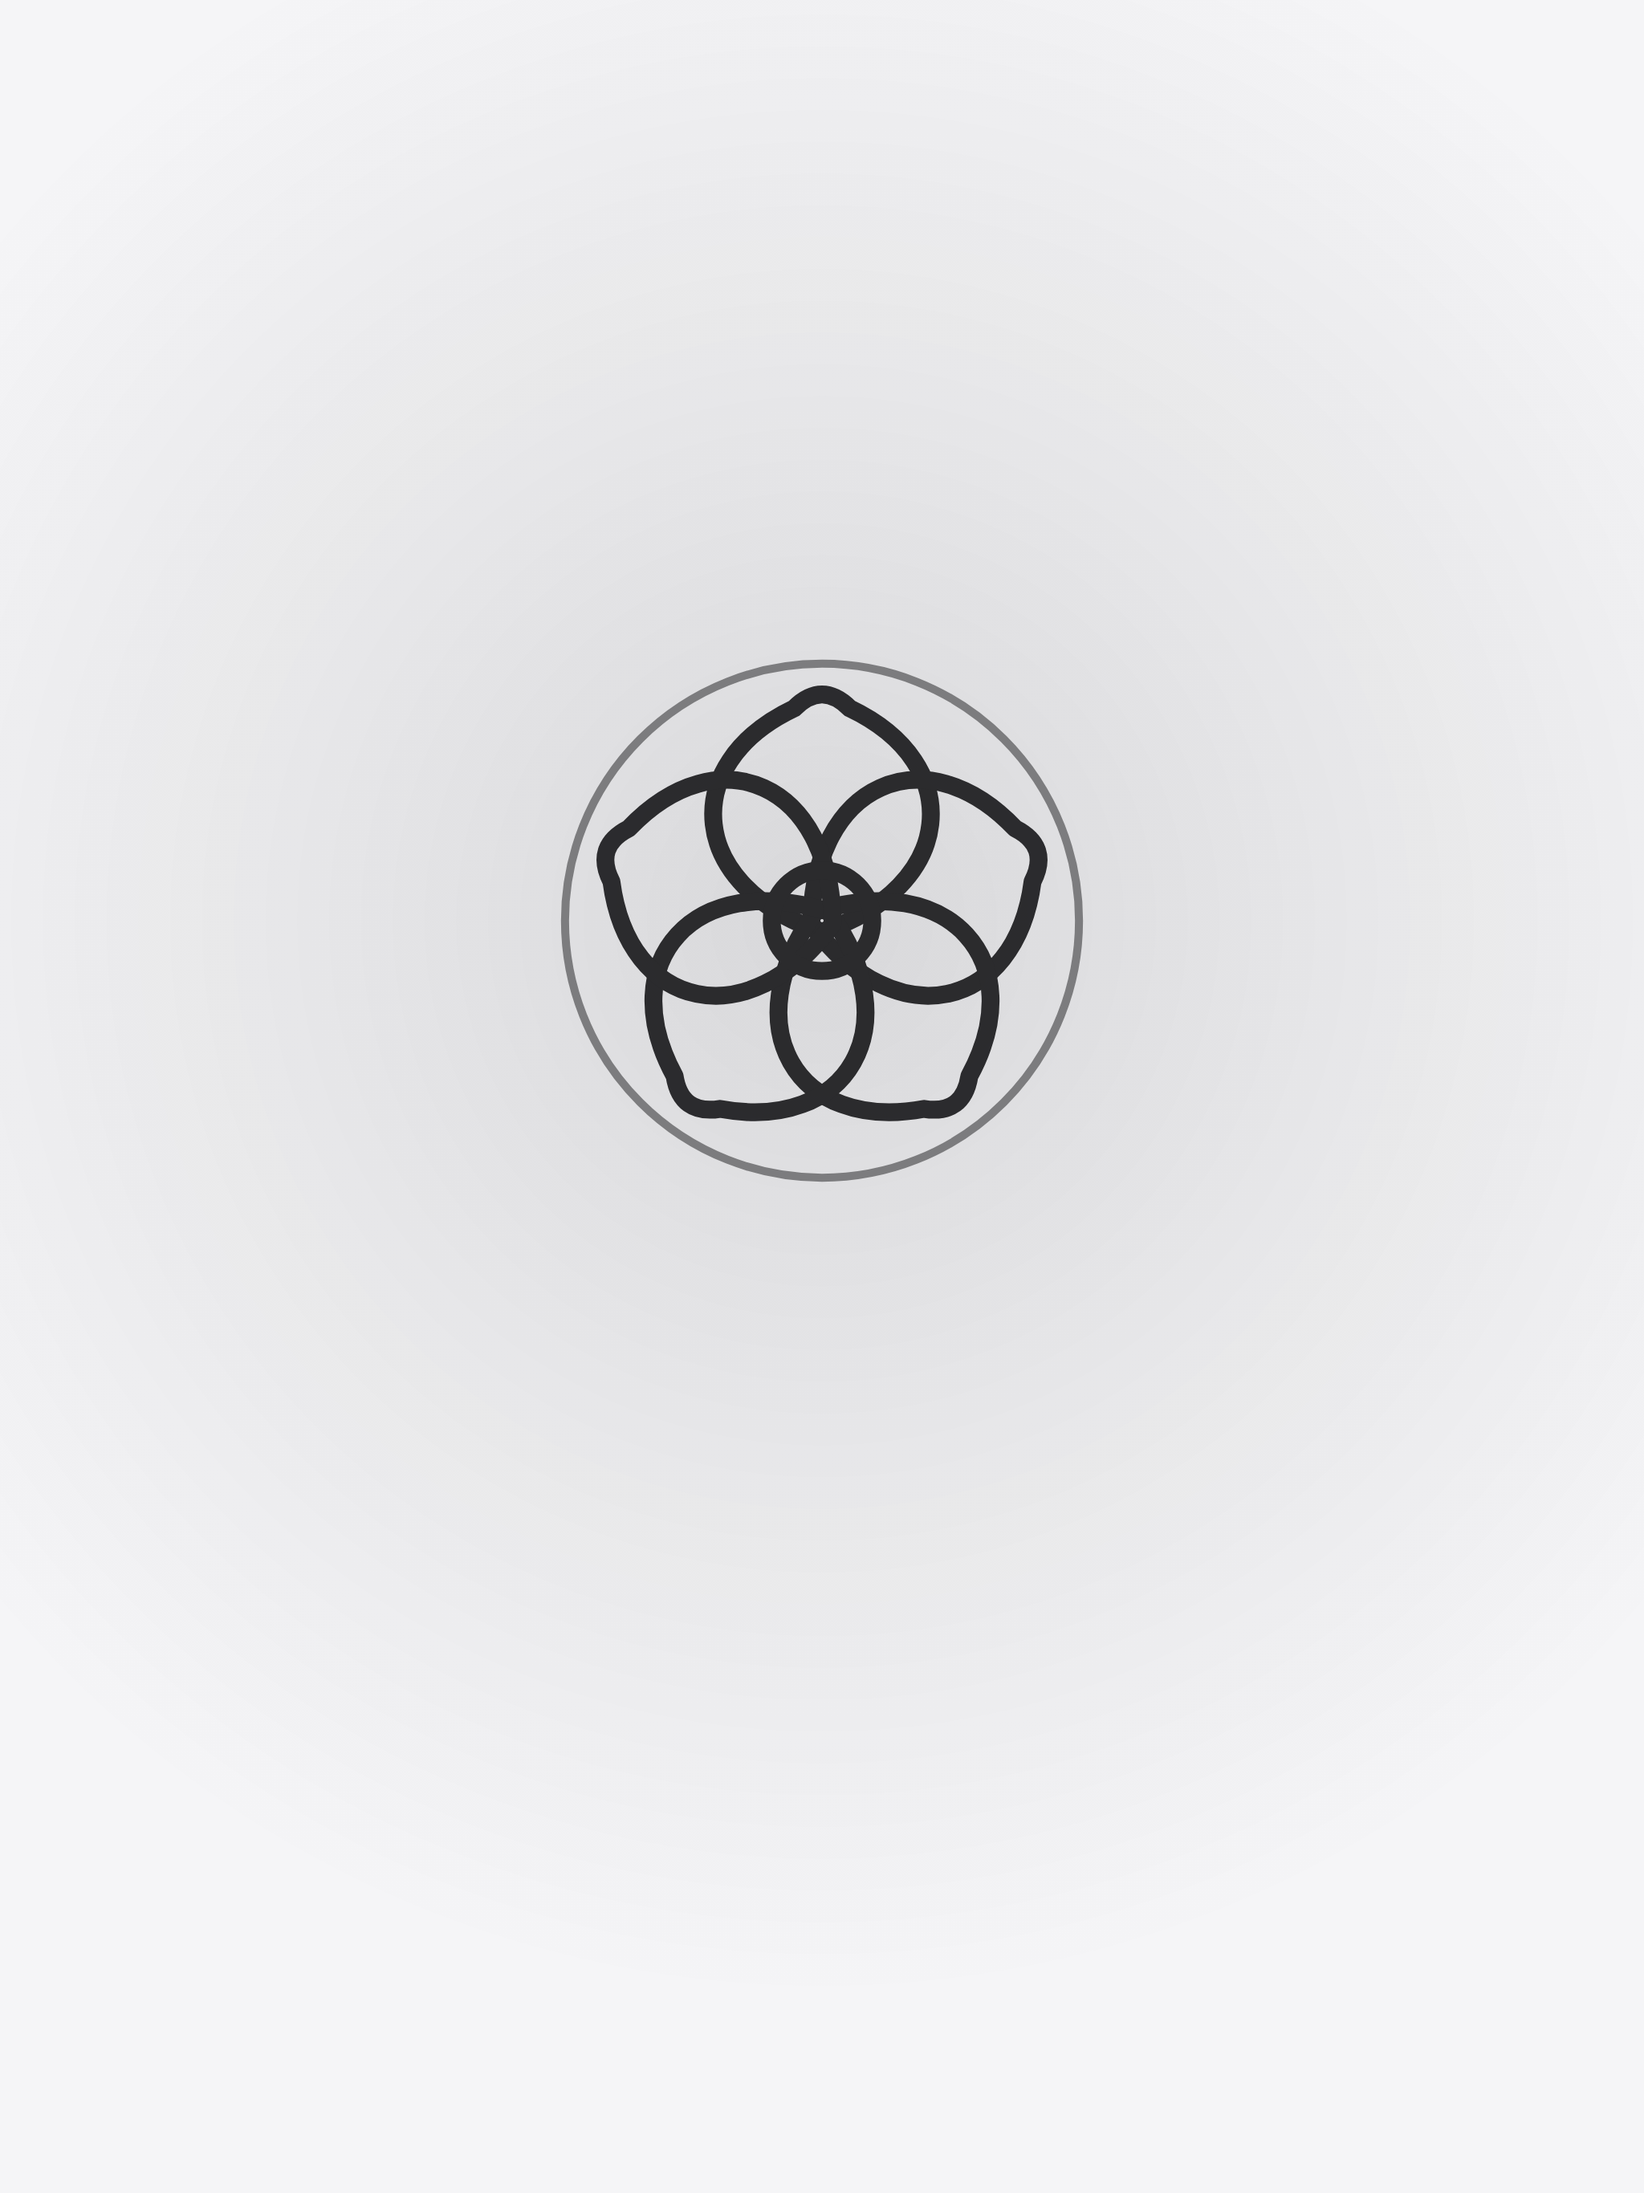
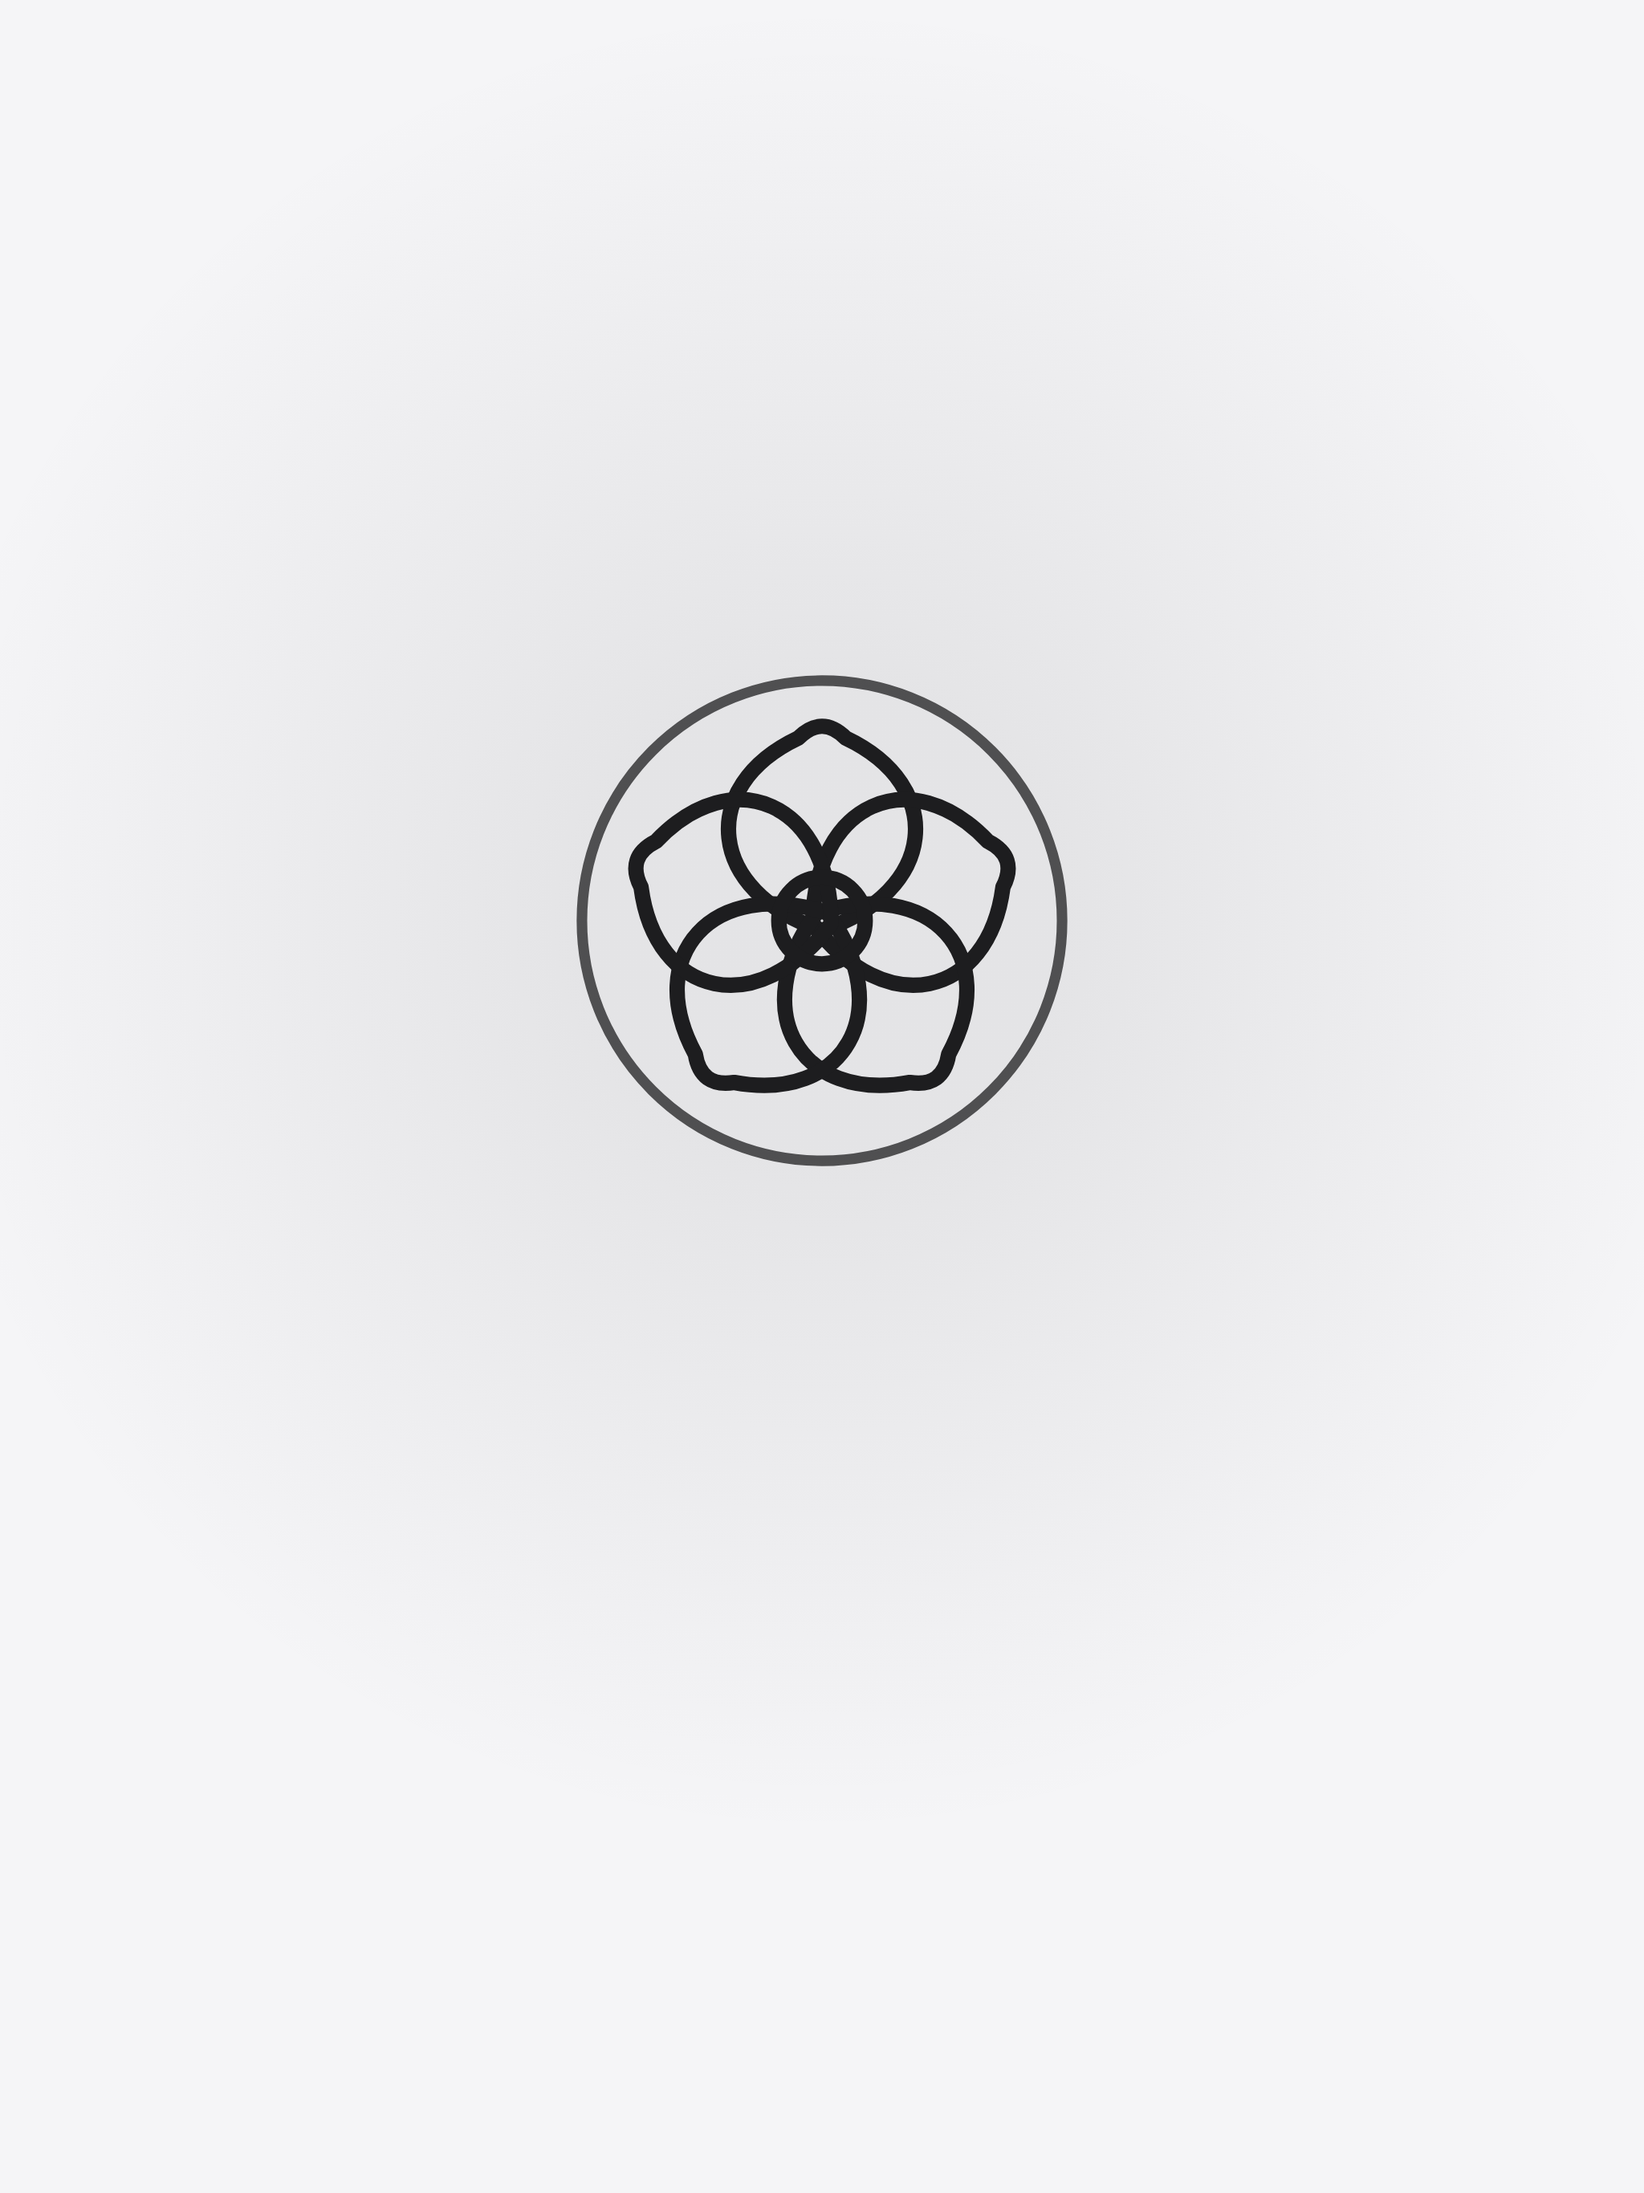
壁紙9枚を新しい作図で作り直す（色は金のまま）
ここだけ 2026-09-23 の作図が残っていた（花が外円の中で下寄り・輪が 1.44・55%）。
配布用の logo-mark.svg を読んで色だけ差し替える形にしたので、
次にマークを直したときも置いていかれない。

寸法・位置・光は、作り直す前の9枚を実測して写した
  iPhone 1290x2796 マーク枠504 中心 縦39.95%
  iPad   2048x2732 マーク枠649 中心 縦41.97%
  Mac    3456x2234 マーク枠839 中心 縦45.95%
  光は地の色からの立ち上がりと、地に戻る距離（831 / 1141 / 1025px）で合わせた

金（#b08733）は 2026-09-24 に深緑へ変えた前のブランド色だが、
壁紙は自分用なので金のまま残した（本人の指示）。

一覧.png も同じ script で作る。手作業だと9枚だけ新しくて一覧が古い、が起きる。

書き出し後に実測：花の中心のズレ 横-0.01% / 縦+0.00%

Changed region(s): [[0.3438, 0.28, 0.6562, 0.56]]

diff --git a/成果物/ロゴ/壁紙/壁紙を作り直す.py b/成果物/ロゴ/壁紙/壁紙を作り直す.py
@@ -1,0 +1,110 @@
+#!/usr/bin/env python3
+"""ロゴマークの壁紙9枚（iPhone / iPad / Mac × 3色）を作り直す。
+
+    ../../../discord-groupchat/venv/bin/python3 壁紙を作り直す.py
+
+マークは ../logo-mark.svg（配布用の写し。実体は main の assets/logo-mark.svg）を
+読んで色だけ差し替える。2026-10-17 までは手作りで、ここだけ 2026-09-23 の
+作図（花が外円の中で下寄り・輪が細い）が残っていた。読んで作れば置いていかれない。
+
+寸法と位置は、作り直す前の9枚を実測して写した値（下の DEVICES / STYLES）。
+金（#b08733）は 2026-09-24 に深緑へ変えた前のブランド色だが、
+壁紙は自分用なので金のまま残してある（2026-10-17・本人の指示）。
+"""
+import pathlib
+import subprocess
+import sys
+
+HERE = pathlib.Path(__file__).resolve().parent
+MARK = HERE.parent / "logo-mark.svg"
+VENV_PY = HERE.parents[2] / "discord-groupchat" / "venv" / "bin" / "python3"
+HTML2PNG = HERE.parents[2] / "discord-groupchat" / "tools" / "html_to_png.py"
+
+# (幅, 高さ, マークの枠の幅, 画面の高さに対するマークの中心)
+DEVICES = {
+    "iphone": (1290, 2796, 504, 0.3995),
+    "ipad": (2048, 2732, 649, 0.4197),
+    "mac": (3456, 2234, 839, 0.4595),
+}
+# (地の色, マークの色, 光の色, 光の濃さ)
+STYLES = {
+    "dark-gold": ("#16161a", "#b08733", "176,135,51", 0.075),
+    "dark-white": ("#16161a", "#f5f5f7", "255,255,255", 0.095),
+    "light-ink": ("#f5f5f7", "#1d1d1f", "29,29,31", 0.078),
+}
+
+
+def page(w, h, box, fy, bg, ink, glow, alpha):
+    svg = MARK.read_text(encoding="utf-8").replace('stroke="#1d1d1f"', f'stroke="{ink}"')
+    # 光はマークの奥にふわっと。作り直す前の9枚で、光が地の色に戻る距離を
+    # 実測した（iPhone 831px / iPad 1141px / Mac 1025px以上＝上端で切れて測り切れず）。
+    # 下の 2.45 と止めどころ72%で、戻る距離が 889 / 1145 / 1480px になる。
+    r = round(box * 2.45)
+    return f"""<!doctype html><html><head><meta charset="utf-8"><style>
+*{{margin:0;padding:0;box-sizing:border-box}}
+body{{width:{w}px;height:{h}px;background:{bg};overflow:hidden}}
+#glow{{position:absolute;inset:0;
+  background:radial-gradient(circle {r}px at 50% {fy * 100:.2f}%,
+    rgba({glow},{alpha}) 0%, rgba({glow},{alpha}) 18%, rgba({glow},0) 72%)}}
+#mark{{position:absolute;left:50%;top:{fy * 100:.2f}%;
+  width:{box}px;height:{box}px;transform:translate(-50%,-50%)}}
+#mark svg{{display:block;width:100%;height:100%}}
+</style></head><body><div id="glow"></div><div id="mark">{svg}</div></body></html>"""
+
+
+# 一覧（どれがどれか一目で分かるように）
+LABELS = {"dark-gold": "濃い地×金", "dark-white": "濃い地×白", "light-ink": "明るい地×黒"}
+DEV_LABEL = {"iphone": "iPhone", "ipad": "iPad", "mac": "Mac"}
+
+
+def index_page():
+    rows = ""
+    for dev, (w, h, _b, _f) in DEVICES.items():
+        shots = "".join(
+            f'<figure><img src="壁紙_{dev}_{st}.png"><figcaption>{LABELS[st]}</figcaption></figure>'
+            for st in STYLES)
+        rows += (f'<div class="row"><div class="tag">{DEV_LABEL[dev]} {w}×{h}</div>'
+                 f'<div class="shots">{shots}</div></div>')
+    return f"""<!doctype html><html lang="ja"><head><meta charset="utf-8"><style>
+*{{margin:0;padding:0;box-sizing:border-box}}
+body{{width:1360px;background:#fff;font-family:"Hiragino Sans",sans-serif;color:#1d1d1f;padding:34px 40px}}
+h1{{font-size:21px;font-weight:600;margin-bottom:22px}}
+.row{{display:flex;align-items:center;gap:28px;padding:26px 0;border-top:1px solid rgba(0,0,0,.1)}}
+.tag{{flex:none;width:150px;font-size:13px;color:#8c8c92}}
+.shots{{display:flex;align-items:flex-start;gap:28px}}
+figure{{text-align:center}}
+img{{max-height:390px;max-width:290px;display:block;box-shadow:0 2px 10px rgba(0,0,0,.14)}}
+figcaption{{font-size:12px;color:#8c8c92;margin-top:9px}}
+</style></head><body><h1>ロゴマークの壁紙（9枚）</h1>{rows}</body></html>"""
+
+
+def main():
+    if not MARK.exists():
+        sys.exit(f"マークが無い: {MARK}")
+    made = []
+    for dev, (w, h, box, fy) in DEVICES.items():
+        for style, (bg, ink, glow, alpha) in STYLES.items():
+            tmp = pathlib.Path("/tmp/_壁紙.html")
+            tmp.write_text(page(w, h, box, fy, bg, ink, glow, alpha), encoding="utf-8")
+            out = HERE / f"壁紙_{dev}_{style}.png"
+            # 端末の実寸そのものなので scale は 1。2 にすると倍の画素になる
+            r = subprocess.run([str(VENV_PY), str(HTML2PNG), str(tmp), str(out),
+                                str(w), str(h), "1"], capture_output=True, text=True)
+            if r.returncode:
+                sys.exit(f"書き出し失敗: {out.name}\n{r.stderr}")
+            made.append(out)
+            print(f"  {out.name:34} {w}x{h}")
+    # 一覧は壁紙を読むので、9枚を書き終えてから作る
+    tmp = HERE / "_一覧.html"
+    tmp.write_text(index_page(), encoding="utf-8")
+    r = subprocess.run([str(VENV_PY), str(HTML2PNG), str(tmp), str(HERE / "一覧.png"),
+                        "1360", "1280", "1"], capture_output=True, text=True)
+    tmp.unlink()
+    if r.returncode:
+        sys.exit(f"一覧の書き出し失敗\n{r.stderr}")
+    print(f"  {'一覧.png':34} 1360x1280")
+    print(f"\n{len(made)}枚＋一覧。置き場: {HERE}")
+
+
+if __name__ == "__main__":
+    main()
